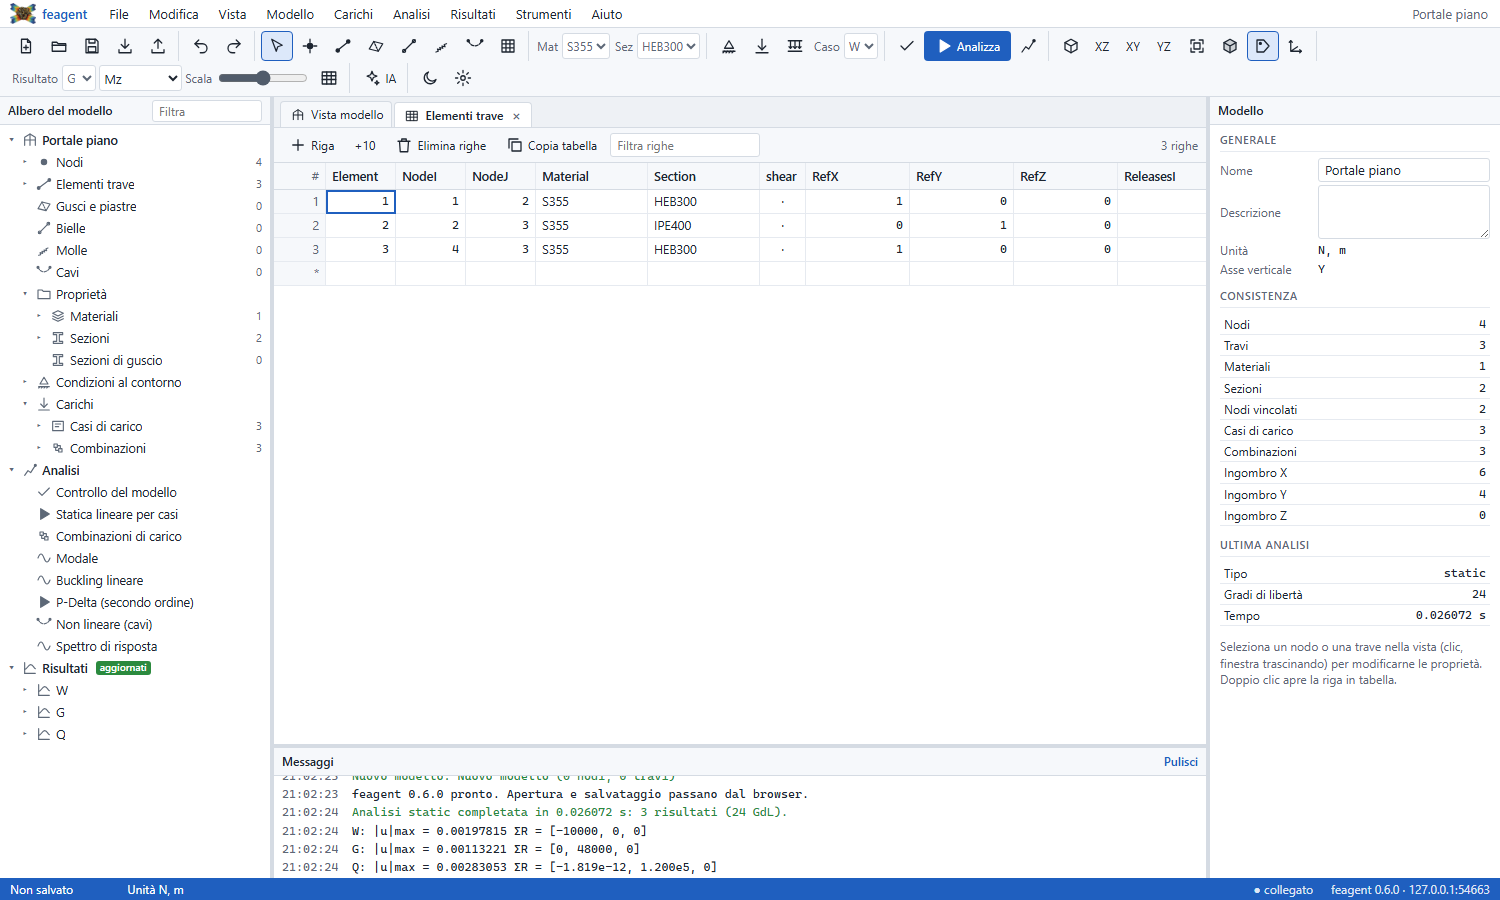
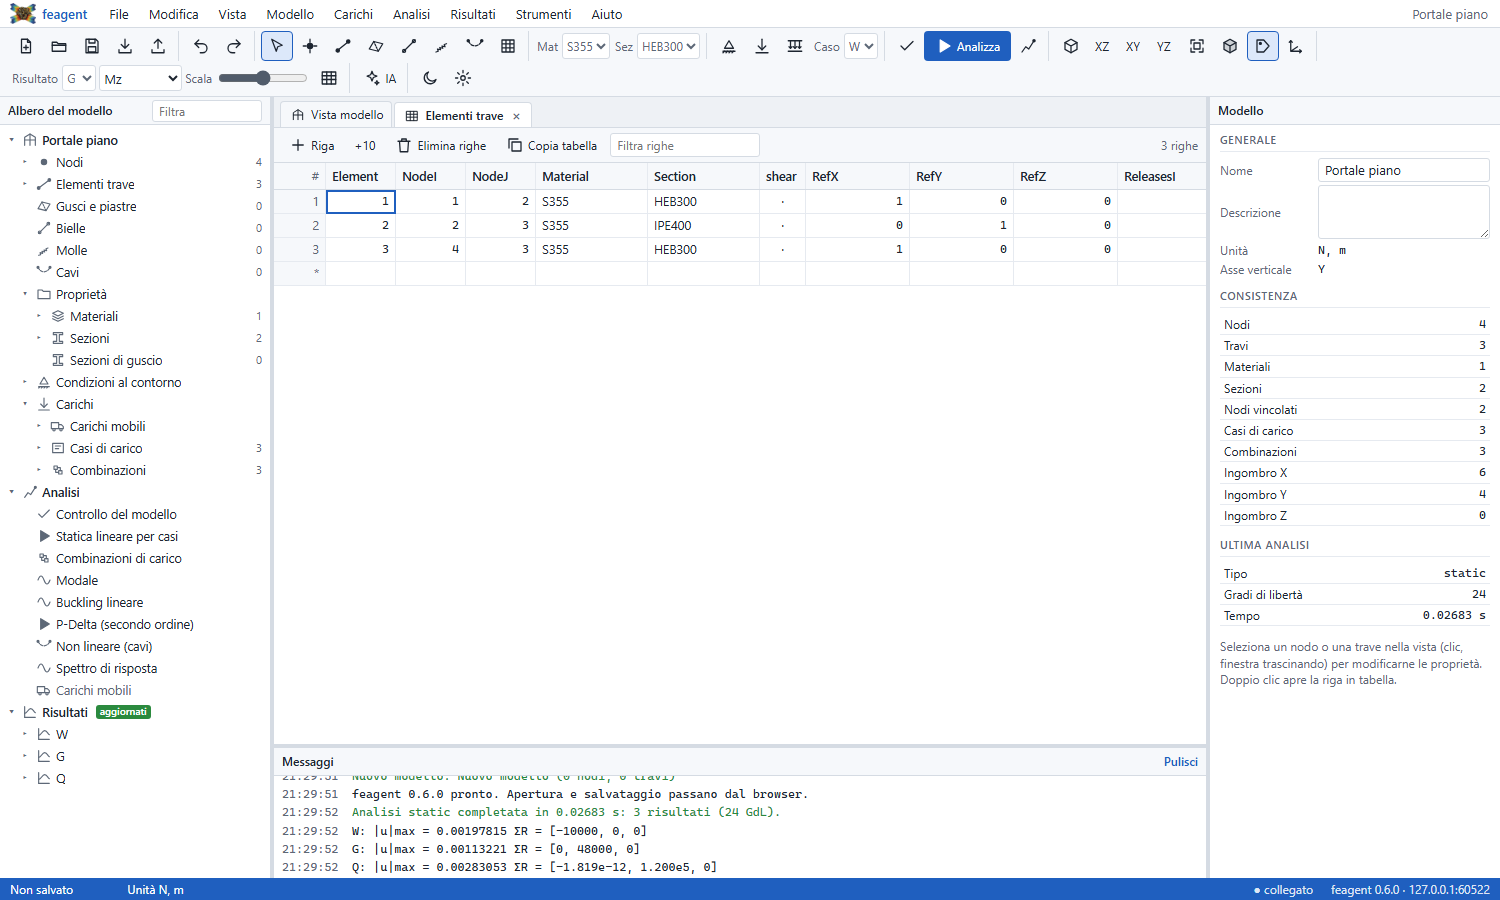
docs: carichi mobili e travi a sezione variabile

diff --git a/it-42-desktop-gui.md b/it-42-desktop-gui.md
@@ -218,6 +218,7 @@ ad `A`, `Iy`, `Iz`.
 | P-Delta | secondo ordine con la rigidezza geometrica aggiornata |
 | Non lineare | Newton-Raphson, con passi di carico; cavi ed elementi solo trazione o solo compressione |
 | Modale, buckling | come prima, con gusci, bielle e cavi (precarico dei cavi incluso) |
+| Carichi mobili | convogli di assi sulle corsie: inviluppi, convoglio che scorre, linee d'influenza (vedi sotto) |
 | Spettro di risposta | spettro EC8 / NTC 2018 di tipo 1 (a<sub>g</sub>, suolo, q, ξ), CQC o SRSS, un risultato per direzione (inviluppi senza segno) e tagli alla base |
 
 Ai risultati si aggiungono le **mappe a colori dei gusci** (Mx, My, Mxy, Nx,
@@ -243,6 +244,54 @@ mappe dei gusci, sforzi assiali, reazioni, estremi per trave) con il
 **controllo dell'equilibrio globale** fra carichi applicati e reazioni, analisi
 modale. Gli stessi dati, senza figure, si ottengono dall'IA con
 `live/export` in formato `report`.
+
+## Travi a sezione variabile
+
+Una trave diventa a sezione variabile indicando la **sezione al nodo J**
+(colonna `SectionJ`) ed eventuali **stazioni intermedie** (`Stations`, per
+esempio `0.3:SEZ2; 0.7:SEZ3`), dal pannello delle proprietà o da **Proprietà
+degli elementi**. La rigidezza è esatta (integrazione della flessibilità di
+sezione lungo l'asse), quindi basta una sola trave per campata.
+
+Se le sezioni alle stazioni hanno la stessa forma con le dimensioni (quelle
+create con **Nuova sezione parametrica** le hanno), si interpolano le
+**dimensioni**: per una trave ad altezza lineare l'inerzia varia allora con il
+cubo dell'altezza, come deve. Altrimenti si interpolano le proprietà A, I, J.
+La vista estrusa segue la rastremazione.
+
+![Graticcio con travi principali ad altezza variabile, vista estrusa](images/gui_tapered.png)
+
+## Carichi mobili
+
+Tre fogli descrivono i carichi mobili (**Carichi > Carichi mobili**):
+
+| Foglio | Contenuto |
+|---|---|
+| Vehicle | un veicolo per nome, una riga per asse: posizione, peso, carreggiata (preset LM1 per le corsie 1, 2, 3, LM2, asse singolo, convoglio di assi uguali) |
+| Lane | corsia su una catena di travi (dalle travi selezionate), nodo di partenza, eccentricità, inclinazione degli assali, traversi di ripartizione |
+| MovingLoad | caso mobile: corsia, veicolo, numero di posizioni, direzione del carico, coefficiente, combinazione statica sovrapposta |
+
+Il convoglio percorre tutta la corsia; per ogni posizione si risolve la statica
+(una sola fattorizzazione della rigidezza per tutte le posizioni). Con
+eccentricità, carreggiata o assali inclinati le ruote si ripartiscono sui
+traversi del graticcio; l'eccentricità è positiva a sinistra nel verso di
+percorrenza guardando dall'alto (normale = verticale × tangente).
+
+**Analisi > Carichi mobili** restituisce per ogni caso:
+
+* **inviluppi** di N, V, T e M (massimo in blu, minimo in rosso), con la
+  combinazione statica sovrapposta e il coefficiente applicato al carico
+  mobile, e l'inviluppo delle reazioni;
+* il **convoglio che scorre**: cursore della posizione e pulsante di
+  riproduzione nella barra, con la deformata a ogni posizione e le ruote
+  disegnate dove le applica il solutore;
+* le tabelle degli inviluppi per trave, degli spostamenti e delle reazioni
+  minimi e massimi e delle **linee d'influenza delle reazioni**.
+
+![Inviluppo del momento sotto il tandem LM1](images/gui_moving.png)
+
+La relazione di calcolo riporta veicoli, corsie, casi mobili, figure degli
+inviluppi, il convoglio in mezzeria e le tabelle degli inviluppi.
 
 ## Pilotare l'interfaccia con un'IA
 

diff --git a/en-42-desktop-gui.md b/en-42-desktop-gui.md
@@ -210,6 +210,7 @@ wizard; otherwise the rectangle equivalent to `A`, `Iy`, `Iz` is used.
 | P-Delta | second order with the updated geometric stiffness |
 | Nonlinear | Newton-Raphson with load steps; cables and tension-only or compression-only members |
 | Modal, buckling | as before, with shells, trusses and cables (cable pretension included) |
+| Moving loads | axle trains on lanes: envelopes, travelling vehicle, influence lines (see below) |
 | Response spectrum | EC8 / NTC 2018 type 1 spectrum (a<sub>g</sub>, soil, q, ξ), CQC or SRSS, one result per direction (unsigned envelopes) and base shear |
 
 Results add **colour maps on shells** (Mx, My, Mxy, Nx, Ny, Nxy, Qx, Qy at the
@@ -235,6 +236,54 @@ diagrams, shell maps, axial forces, reactions, extremes per beam) with the
 **global equilibrium check** between applied loads and reactions, modal
 analysis. The same data without figures are available to an AI through
 `live/export` with format `report`.
+
+## Tapered beams
+
+A beam becomes tapered by setting the **section at node J** (column
+`SectionJ`) and optional **inner stations** (`Stations`, e.g.
+`0.3:SEC2; 0.7:SEC3`), from the properties panel or **Element properties**.
+The stiffness is exact (integration of the section flexibility along the
+axis), so one beam per span is enough.
+
+When the sections at the stations share the same shape with dimensions (those
+created with **New parametric section** do), the **dimensions** are
+interpolated: for a linearly varying depth the inertia then varies with the
+cube of the depth, as it should. Otherwise A, I and J are interpolated. The
+extruded view follows the taper.
+
+![Grillage with variable depth main girders, extruded view](images/gui_tapered.png)
+
+## Moving loads
+
+Three sheets describe moving loads (**Loads > Moving loads**):
+
+| Sheet | Content |
+|---|---|
+| Vehicle | one vehicle per name, one row per axle: position, weight, gauge (presets LM1 lanes 1, 2, 3, LM2, single axle, train of equal axles) |
+| Lane | lane on a chain of beams (from the selected beams), start node, eccentricity, axle skew, distributing cross beams |
+| MovingLoad | moving case: lane, vehicle, number of positions, load direction, factor, superposed static combination |
+
+The vehicle travels the whole lane; each position is a static solution (one
+stiffness factorisation for all positions). With eccentricity, gauge or skewed
+axles the wheels are spread over the grillage cross beams; the eccentricity is
+positive to the left of the travel direction seen from above (normal =
+vertical × tangent).
+
+**Analysis > Moving loads** returns for each case:
+
+* **envelopes** of N, V, T and M (maximum in blue, minimum in red), with the
+  superposed static combination and the factor on the moving load, and the
+  reaction envelope;
+* the **travelling vehicle**: a position slider and a play button in the
+  toolbar, with the deformed shape at each position and the wheels drawn
+  where the solver applies them;
+* tables of envelopes per beam, of minimum and maximum displacements and
+  reactions, and of the **reaction influence lines**.
+
+![Moment envelope under the LM1 tandem](images/gui_moving.png)
+
+The calculation report lists vehicles, lanes, moving cases, envelope figures,
+the vehicle at midspan and the envelope tables.
 
 ## Driving the interface with an AI
 

diff --git a/it-11-excel-io.md b/it-11-excel-io.md
@@ -194,7 +194,7 @@ normalizzato prima di usarlo (`feagent convert tabelle_sap.xlsx modello.xlsx --A
 | Node | Node, X, Y, Z |
 | Material | Material, E, [nu], [alpha], [G], [rho], [gamma] |
 | Section | Section, A, Iy, Iz, J, [Asy], [Asz], [Shape, h, b, tw, tf, t, d] (forma, solo per la vista estrusa) |
-| Element | Element, NodeI, NodeJ, Material, Section, [shear], [RefX, RefY, RefZ], [ReleasesI], [ReleasesJ] |
+| Element | Element, NodeI, NodeJ, Material, Section, [shear], [RefX, RefY, RefZ], [ReleasesI], [ReleasesJ], [SectionJ], [Stations] - `SectionJ` e `Stations` (`0.5:SEZ2`) rendono la trave a sezione variabile |
 | Support | Node, Dx, Dy, Dz, Rx, Ry, Rz (1 = vincolato, assi globali) |
 | NodalLoad | Node, Fx, Fy, Fz, Mx, My, Mz, [Case] |
 | DistributedLoad | Element, Component, qi, [qj], [a], [b], [frame], [Case] - `a`, `b` normalizzati in [0, 1] |
@@ -214,6 +214,9 @@ normalizzato prima di usarlo (`feagent convert tabelle_sap.xlsx modello.xlsx --A
 | ShellLoad | Shell, qx, qy, qz, [frame], [projected], [Case] |
 | ShellThermal | Shell, dT, [dT_grad], [Case] |
 | SelfWeight | Case, [g], [DirX], [DirY], [DirZ] - peso proprio automatico di travi, bielle e gusci |
+| Vehicle | Vehicle, Offset, Load, [Gauge] - veicolo, una riga per asse (Load = peso dell'asse, positivo) |
+| Lane | Lane, Elements (`1:20` o `1,2,3`), [StartNode], [Ecc], [Skew], [Deck] - corsia su una catena di travi |
+| MovingLoad | MovingLoad, Lane, Vehicle, [Positions], [Axis] (`-z`), [Factor], [Static] - caso di carico mobile |
 | README | testo libero, ignorato |
 
 Le unita' sono SI (N, m, Pa, kg, K) o qualsiasi sistema coerente. I carichi

diff --git a/en-11-excel-io.md b/en-11-excel-io.md
@@ -192,7 +192,7 @@ use (`feagent convert sap_tables.xlsx model.xlsx --A ... --Iy ...`).
 | Node | Node, X, Y, Z |
 | Material | Material, E, [nu], [alpha], [G], [rho], [gamma] |
 | Section | Section, A, Iy, Iz, J, [Asy], [Asz], [Shape, h, b, tw, tf, t, d] (shape, extruded view only) |
-| Element | Element, NodeI, NodeJ, Material, Section, [shear], [RefX, RefY, RefZ], [ReleasesI], [ReleasesJ] |
+| Element | Element, NodeI, NodeJ, Material, Section, [shear], [RefX, RefY, RefZ], [ReleasesI], [ReleasesJ], [SectionJ], [Stations] - `SectionJ` and `Stations` (`0.5:SEC2`) make the beam tapered |
 | Support | Node, Dx, Dy, Dz, Rx, Ry, Rz (1 = restrained, global axes) |
 | NodalLoad | Node, Fx, Fy, Fz, Mx, My, Mz, [Case] |
 | DistributedLoad | Element, Component, qi, [qj], [a], [b], [frame], [Case] - `a`, `b` normalized in [0, 1] |
@@ -212,6 +212,9 @@ use (`feagent convert sap_tables.xlsx model.xlsx --A ... --Iy ...`).
 | ShellLoad | Shell, qx, qy, qz, [frame], [projected], [Case] |
 | ShellThermal | Shell, dT, [dT_grad], [Case] |
 | SelfWeight | Case, [g], [DirX], [DirY], [DirZ] - automatic self weight of beams, trusses and shells |
+| Vehicle | Vehicle, Offset, Load, [Gauge] - vehicle, one row per axle (Load = axle weight, positive) |
+| Lane | Lane, Elements (`1:20` or `1,2,3`), [StartNode], [Ecc], [Skew], [Deck] - lane on a chain of beams |
+| MovingLoad | MovingLoad, Lane, Vehicle, [Positions], [Axis] (`-z`), [Factor], [Static] - moving load case |
 | README | free text, ignored |
 
 Units are SI (N, m, Pa, kg, K) or any consistent system. Gravity loads on
